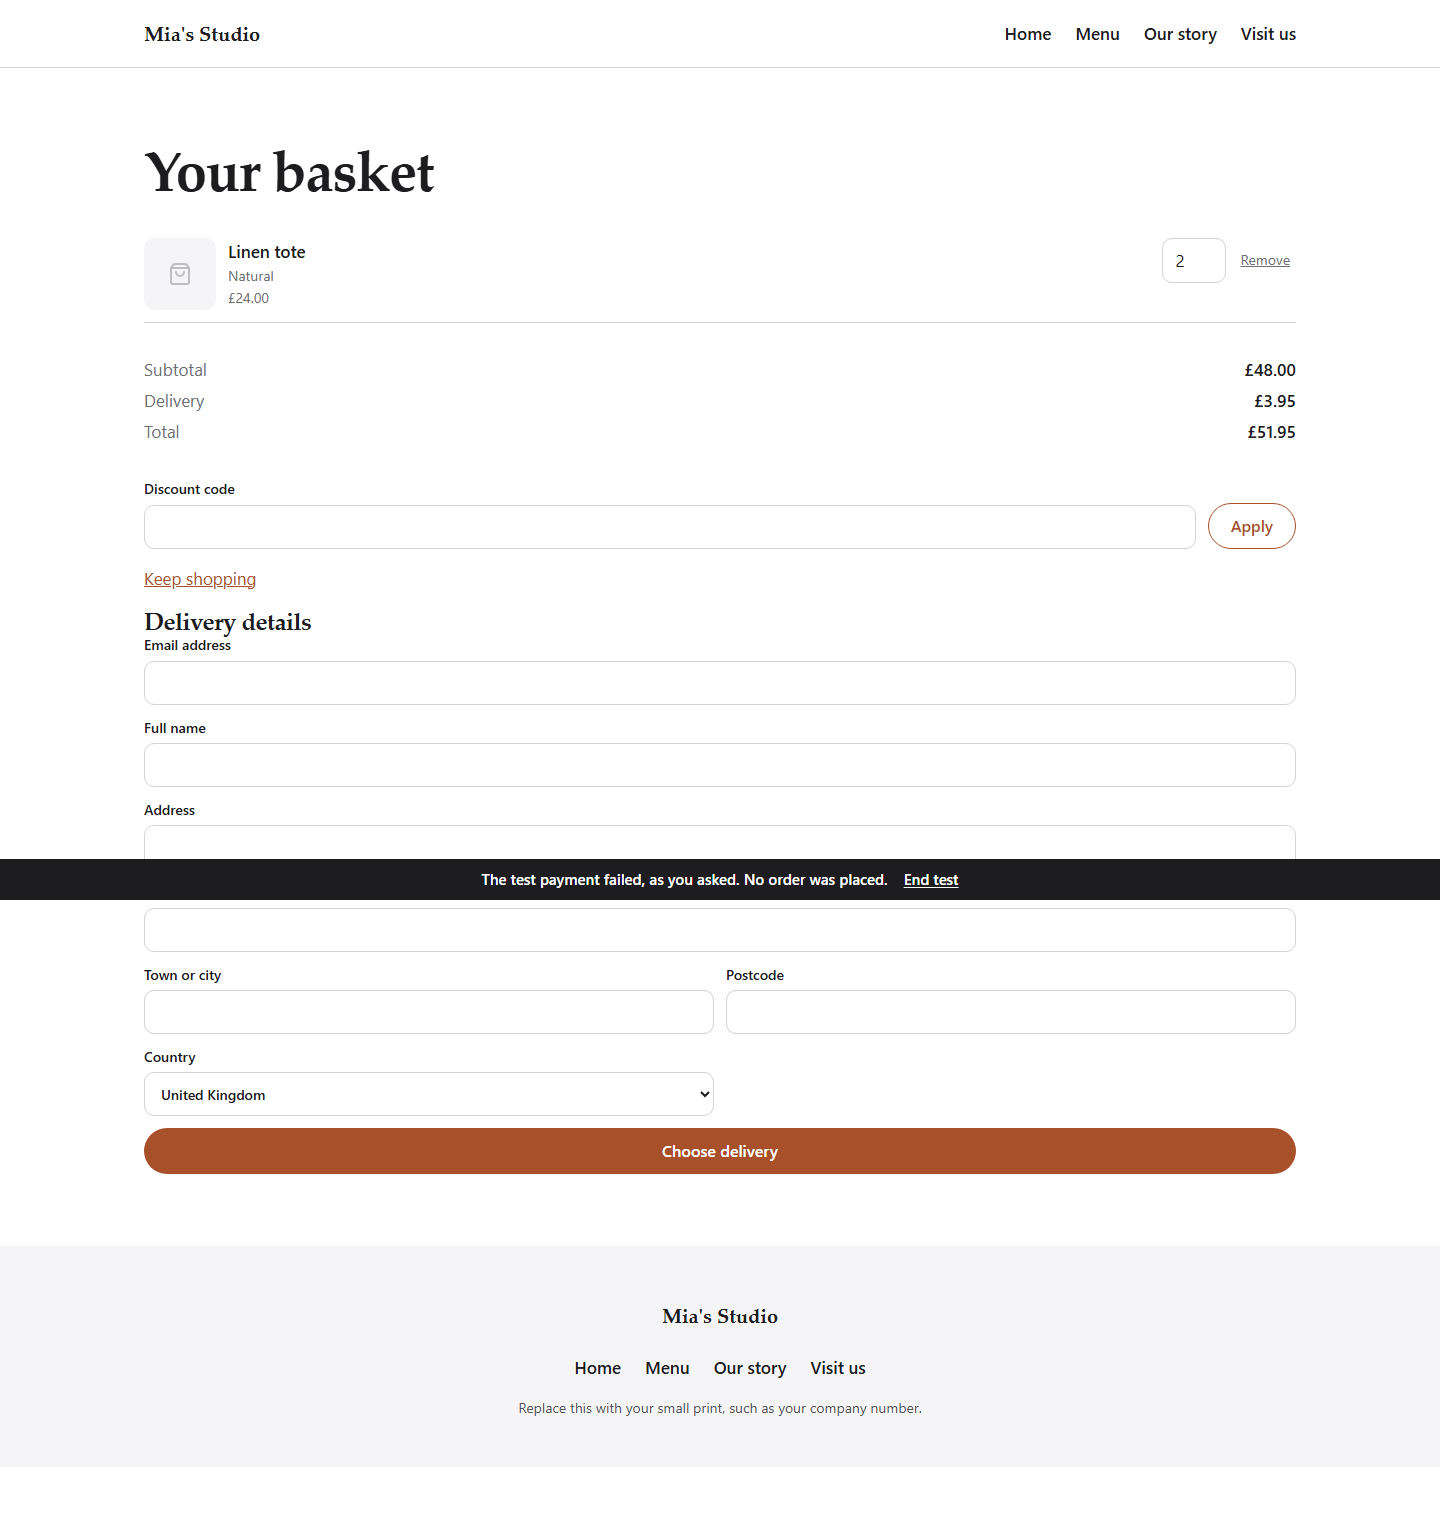
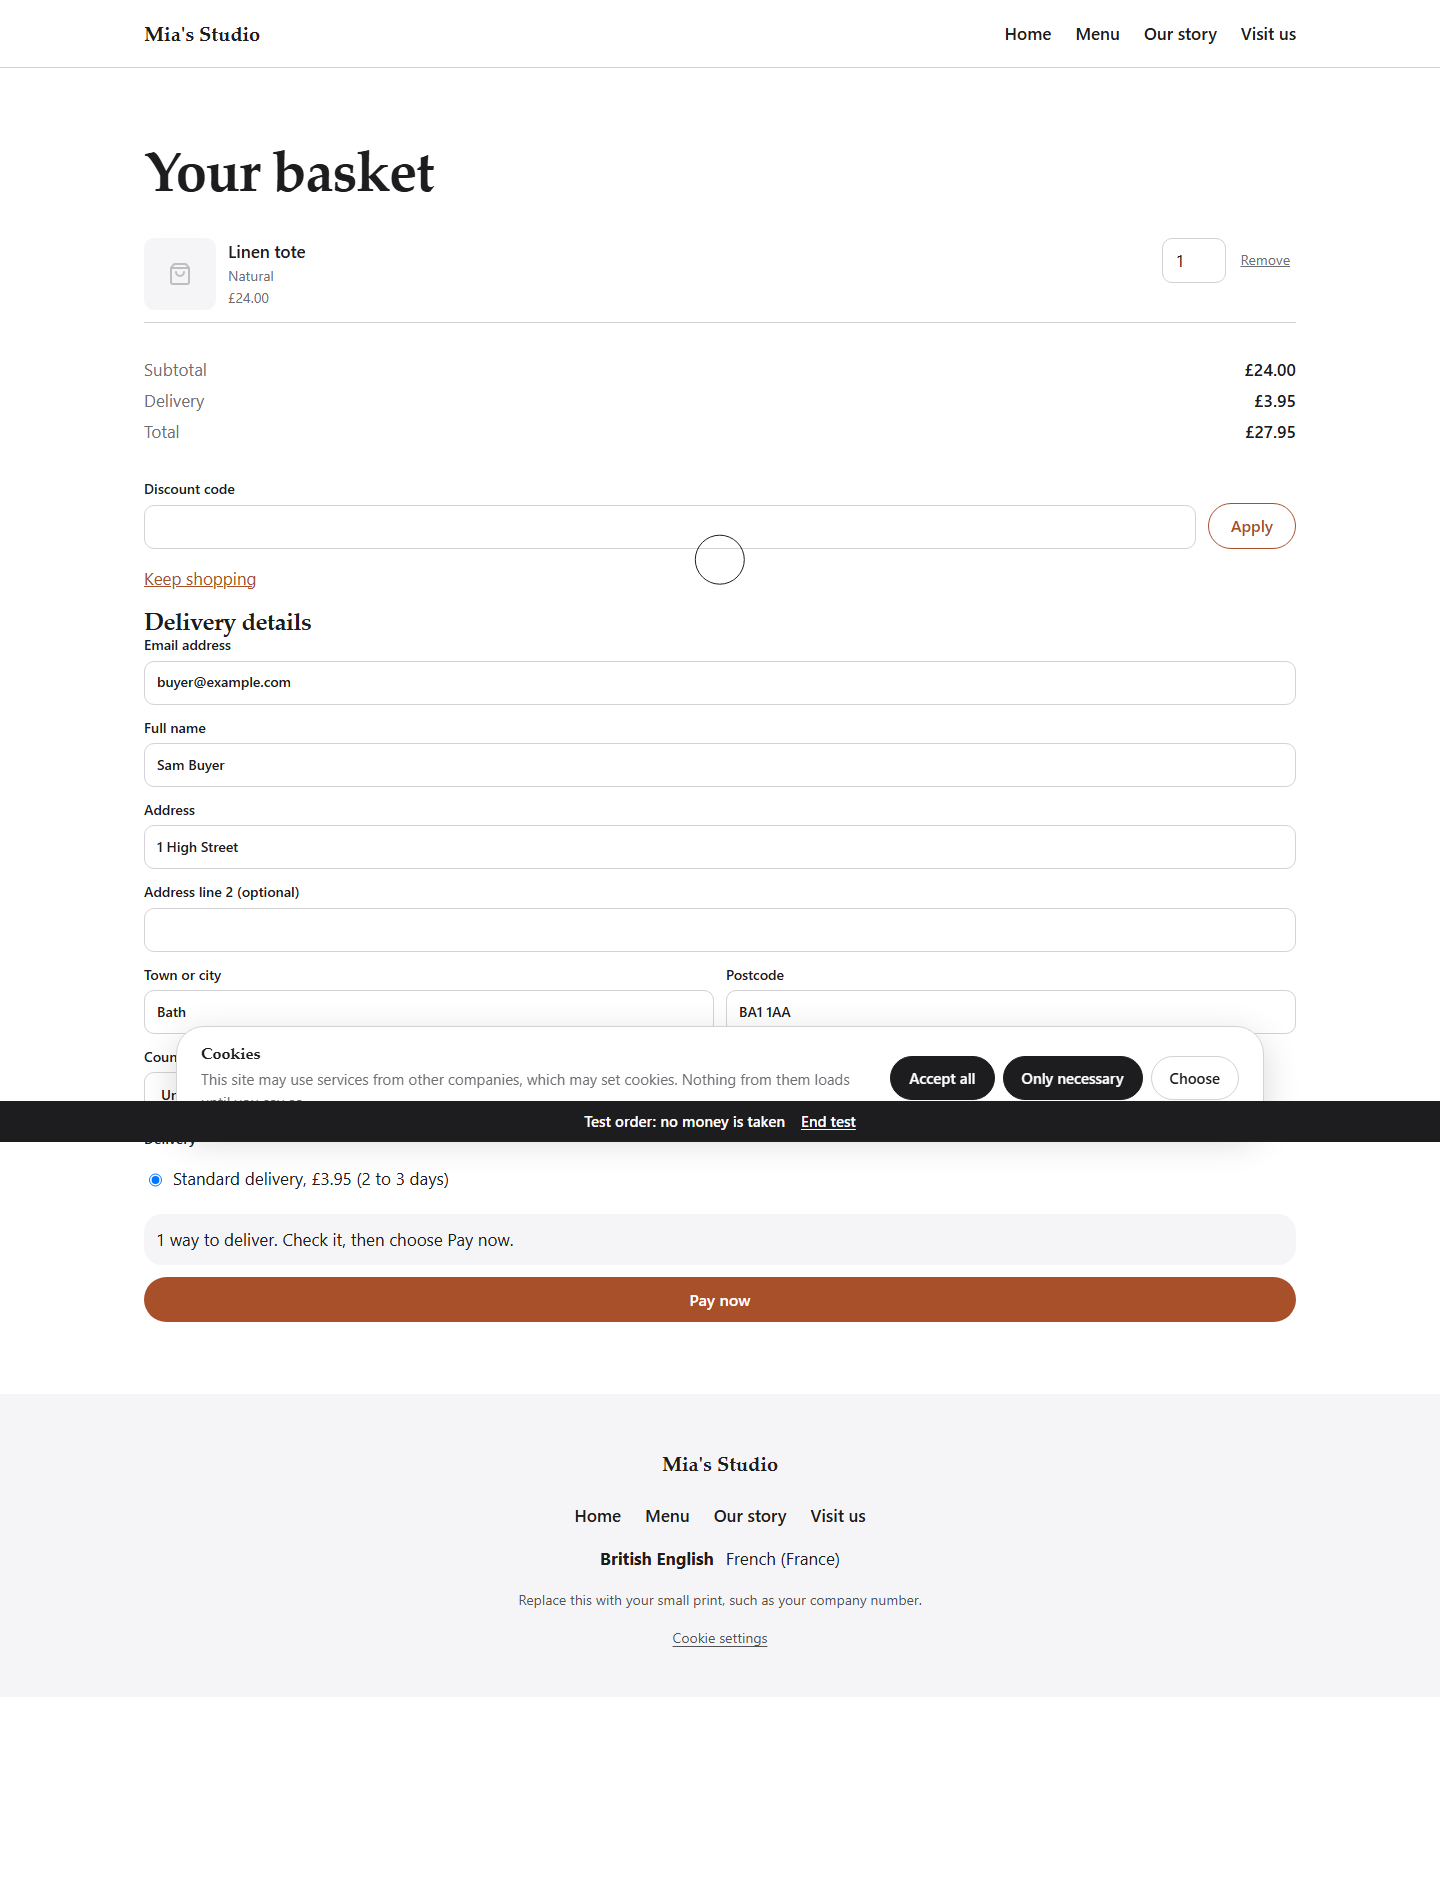
Record the overnight QA pass in the bug report, test results and fix log

diff --git a/docs/qa/BUG-REPORT.md b/docs/qa/BUG-REPORT.md
@@ -916,3 +916,47 @@ Found while joining external apps to the release branch and checking Build → A
 | LINTEL-UX-133 | P3       | Fixed  | An app's page said its name twice when its sidebar label is the app's name                                      |
 | LINTEL-UX-134 | P3       | Fixed  | An app's details page: the Uninstall button sat far to the right of the narrower cards below it                 |
 | LINTEL-UX-135 | P2       | Fixed  | An app could keep working after the person who installed it was deactivated (API tokens already stopped)        |
+
+## Overnight QA and UX pass (4 November 2026)
+
+A first-time website maker's journeys on a fresh install, in real Chromium, on `fix/night-qa` from `9943c3c1`. Fixes are in `FIX-LOG-night-qa.md`; screenshots in `screenshots/night-qa/`. Ranked by severity.
+
+| ID              | Severity | Status | Summary                                                                                                                       |
+| --------------- | -------- | ------ | ----------------------------------------------------------------------------------------------------------------------------- |
+| LINTEL-FUNC-034 | P1       | Fixed  | A section from Insert goes inside what's selected: a column, or the section just added, so the second section of a page nests |
+| LINTEL-FUNC-033 | P1       | Fixed  | With nothing selected, a new section goes after the site's footer until the page is reopened                                  |
+| LINTEL-FUNC-035 | P1       | Fixed  | The basket total leaves out the ticked delivery until the payment page                                                        |
+| LINTEL-FUNC-031 | P2       | Fixed  | A published page scrolls sideways on a phone while something waits to slide in from the right (Bakery, Our story)             |
+| LINTEL-FUNC-032 | P2       | Fixed  | Blog and magazine publishes dead `/blog` links on a site with the blog off                                                    |
+| LINTEL-FUNC-036 | P2       | Fixed  | A destination still says "Not published yet" after publishing, until the page is reloaded                                     |
+| LINTEL-FUNC-037 | P2       | Open   | Translating a page before its parent makes it that language's home page: `/fr-FR` is "Our services". Needs Daniel's decision  |
+| LINTEL-UX-302   | P2       | Fixed  | New sites and templates without their own footer publish "Replace this with your small print…"                                |
+| LINTEL-UX-304   | P2       | Fixed  | "Market" in the shop: "To try it, you need a market", Add market, Primary                                                     |
+| LINTEL-UX-305   | P2       | Fixed  | A refused product save says only "Some boxes need fixing", with the boxes far below; "making the product active"              |
+| LINTEL-UX-306   | P2       | Fixed  | What Insert adds lands below the fold with the canvas left where it was, so nothing seems to happen                           |
+| LINTEL-UX-315   | P2       | Fixed  | Back from a failed payment, the shopper's email and address are gone                                                          |
+| LINTEL-UX-300   | P3       | Fixed  | The template dialog says "Pages you already have stay as they are" while Replace my pages is chosen                           |
+| LINTEL-UX-301   | P3       | Fixed  | Template cards lower every letter: "djs"                                                                                      |
+| LINTEL-UX-303   | P3       | Fixed  | Make a component shows `Now: var(--lintel-color-border)`                                                                      |
+| LINTEL-UX-307   | P3       | Fixed  | An A/B test says "No visitors yet" over a version with 8 visitors                                                             |
+| LINTEL-UX-308   | P3       | Fixed  | Media shows "646 byte"                                                                                                        |
+| LINTEL-UX-309   | P3       | Fixed  | Adding an unreachable app shows `getaddrinfo ENOTFOUND nothing.invalid`                                                       |
+| LINTEL-UX-310   | P3       | Fixed  | "Taxonomies" and "Hostnames…" in the content tree                                                                             |
+| LINTEL-UX-311   | P3       | Fixed  | A client who opens /design is offered Use this template, then refused with a design error                                     |
+| LINTEL-UX-312   | P3       | Fixed  | A page named after the site is titled "Mia's Studio \| Mia's Studio", as is the "no home page yet" page                       |
+| LINTEL-UX-313   | P3       | Fixed  | The API reference overflows at 390px (403px wide)                                                                             |
+| LINTEL-UX-314   | P3       | Fixed  | Updates says "plugins"; everywhere else says add-ons                                                                          |
+| LINTEL-UX-316   | P3       | Open   | Replace my pages with the look off keeps the old look's header button, which can lead to a replaced page (a 404)              |
+| LINTEL-UX-317   | P3       | Open   | Replace my pages leaves the old template's collections (Episodes, Listings) and their published samples behind                |
+| LINTEL-UX-318   | P3       | Open   | Static publishing leaves out the sample 3D models: `/_lintel/models/vase.glb` is a 404 (held by the Rive and 3D track)        |
+| LINTEL-UX-319   | P3       | Open   | Lottie and Rive offer Upload a file but no way to pick a file already in Media (held by the Rive and 3D track)                |
+| LINTEL-UX-320   | P3       | Open   | Rive's own warning about `stateMachine` is in the console on every page with a Rive animation (held by the Rive and 3D track) |
+| LINTEL-UX-321   | P3       | Open   | `InvalidStateError` from the page transition in the console when a page moves to the test payment page. Harmless              |
+| LINTEL-UX-322   | P3       | Open   | Insert search for "form" lists about 30 elements, from words in their descriptions; Form is first                             |
+| LINTEL-UX-323   | P3       | Open   | The first site is called "Default site" beside the site's own name, and a site at a path says "No domain yet"                 |
+| LINTEL-UX-324   | P3       | Open   | A client who types /settings or /build sees those screens (the data is refused); /users shows "This didn't load"              |
+| LINTEL-UX-325   | P3       | Open   | Settings → Your website says "Your website is live" on a site with no pages; This server says "sharp works"                   |
+| LINTEL-UX-326   | P3       | Open   | An Arc carousel published without pictures is a blank 380px gap                                                               |
+| LINTEL-UX-327   | P3       | Open   | Visitors counts goals from automated browsers but not their visits: "form sent 2" beside 0 visitors, a 100% conversion rate   |
+| LINTEL-UX-329   | P3       | Open   | During a shop test with the cookie notice showing, the test bar covers the last line of the notice                            |
+| LINTEL-UX-328   | P3       | Open   | Templates as drafts with the look on: the first-visit intro and footer show the sample's name on the empty site               |

diff --git a/docs/qa/TEST-RESULTS.md b/docs/qa/TEST-RESULTS.md
@@ -272,3 +272,30 @@ None.
 - CLI: the known 3 Windows failures.
 
 In a browser (API 4600, site 4601, admin 5690, a fresh Lintel folder): a page drawn by `templates/pages.liquid` through a layout and a partial, a page choosing `landing.liquid` inside the shared document, a template edit showing on reload without a restart, a broken template showing its error in development, and the editor's Template section at desktop and 390px in light and dark. Screenshots in `screenshots/liquid-templates/`.
+
+## Overnight QA and UX pass (fix/night-qa, 2026-11-04)
+
+Chromium through Playwright 1.63, Windows. API 4761, website 4762, admin 5761, Vite dev server, a new Lintel folder.
+
+| Journey                                                                                                          | Result                                                                                                         |
+| ---------------------------------------------------------------------------------------------------------------- | -------------------------------------------------------------------------------------------------------------- |
+| First run: welcome, database, account, site name, kind, review, finish                                           | Pass                                                                                                           |
+| All 20 templates, published with the look: every page and link, one h1, no overflow                              | Pass after FUNC-031, FUNC-032. Atelier's h1 to h3 skip is the known UX-159                                     |
+| Templates with the look off or as drafts (Folio, Longwave, Longplay)                                             | Pass; UX-316, UX-317, UX-328 logged                                                                            |
+| Builder: tour (9 steps), Insert, inline text, Style, Animate, undo and redo, publish, Design and Content         | Pass after FUNC-033, FUNC-034, UX-306                                                                          |
+| Components: make, variants, a variant on a page, published                                                       | Pass (the Large variant's 56px heading on the live page)                                                       |
+| Multi-select, tree marks and menus                                                                               | Pass, light coverage; multi-select copy is held by another track                                               |
+| Shop: region, delivery, product with variant rows, Try your shop, failed payment, test order, Delete test orders | Pass after FUNC-035, UX-305, UX-315. Stock 7, then 4 with the test order, then 7 after deleting it             |
+| An ordinary visitor during a shop test                                                                           | Pass: "Coming soon", no basket button, no test bar, 403 on the test payment page                               |
+| Forms: new from Contact, on a page, sent, submissions                                                            | Pass                                                                                                           |
+| Cookie notice: Always, three choices, remembered, 390px, dark                                                    | Pass                                                                                                           |
+| Visitors: counted with a normal browser, not with an automated one                                               | Pass; UX-327 logged                                                                                            |
+| A/B test: version B, goal, start, results                                                                        | Pass after UX-307. Not run to an end. All simulated visitors shared one address, so only one version was seen  |
+| Privacy: find, export (zip), erase, then nothing found                                                           | Pass                                                                                                           |
+| Published creative page: 3D model, Lottie, Rive, text on a path, stickers, arc carousel                          | Pass, at desktop, 390px and dark. Reduced motion: the carousel becomes a scrolling row, and arrow keys move it |
+| Page transition and first-visit intro                                                                            | Seen working through templates. Custom cursor not exercised                                                    |
+| Add-ons and apps                                                                                                 | Screens and refusals only: no third-party add-on or app was installed                                          |
+| Static publishing to a folder                                                                                    | Pass: 134 files, pages open offline, no localhost addresses left. FUNC-036 fixed, UX-318 logged                |
+| Client content-only: invited, accepted, page editor, API refuses design changes                                  | Pass after UX-311; UX-324 logged. Not tried: changing an opened-up part, or sending it for approval            |
+| Languages and multisite                                                                                          | Language added, page translated, second site at /fr served; FUNC-037 open                                      |
+| Keyboard: 40 Tab presses on 7 main screens                                                                       | No traps; every stop shows a ring on itself or its row                                                         |

diff --git a/docs/qa/FIX-LOG-night-qa.md b/docs/qa/FIX-LOG-night-qa.md
@@ -16,6 +16,7 @@ A first-time website maker's journeys, walked on a fresh install in real Chromiu
 | LINTEL-UX-306   | P2       | `62cdc88f`             | The canvas scrolls to what Insert adds                                                                           |
 | LINTEL-FUNC-036 | P2       | `4b117c61`             | A destination shows as published when the publish ends; its dates match the rest of the admin                    |
 | LINTEL-UX-304   | P2       | `88279843`             | "Market" is now "Where you sell" and "region" in the shop's screens, messages and guides; the API keeps its name |
+| LINTEL-UX-315   | P2       | `a73763c2`             | Back from a failed payment, the shopper's email and address are still there (`after-failed-payment.png`)         |
 | LINTEL-UX-300   | P3       | `3c3e37b7`             | The template dialog no longer promises to keep pages while replacing them                                        |
 | LINTEL-UX-301   | P3       | `3c3e37b7`             | "djs" is "DJs" again on the Longplay card                                                                        |
 | LINTEL-UX-303   | P3       | `e348b12f`             | The Make a component dialog doesn't show a colour's code                                                         |
@@ -42,7 +43,7 @@ A first-time website maker's journeys, walked on a fresh install in real Chromiu
 
 **Before:** after Choose delivery the only rate was ticked, but the total stayed at £24.00 until the payment page said £27.95.
 
-**After:** the ticked rate is sent as soon as rates are offered, and again whenever the choice changes. Browser run: `Subtotal £72.00 Delivery £3.95 Total £75.95` before Pay now.
+**After:** the ticked rate is sent as soon as rates are offered, and again whenever the choice changes. Browser run on a fresh basket, with the site's script rebuilt: `Subtotal £24.00, Delivery £3.95, Total £27.95` before Pay now (`after-basket-total.png`).
 
 **Tests:** `cart-views.test.ts`.
 

diff --git a/docs/qa/RELEASE-READINESS.md b/docs/qa/RELEASE-READINESS.md
@@ -225,3 +225,12 @@ With these, **no P1 is open**. Still needed before calling one-click updates saf
 - a real update and roll back of a release build, on Linux and on Windows;
 - the update tests on Linux in CI;
 - a decision on Postgres: updates that change the database are done by hand for now.
+
+## Update, 4 November 2026: overnight QA and UX pass
+
+Branch `fix/night-qa` (`FIX-LOG-night-qa.md`). The text above is unchanged.
+
+- A first-time website maker's journeys were walked in a real browser, from nothing to a published site, a test shop order, forms, privacy, creative pages and static publishing. 22 defects were fixed: 3 P1, 8 P2, 11 P3.
+- The three P1s were everyday flows that automated tests didn't reach: where a section lands in the builder (FUNC-033, FUNC-034) and a basket total without delivery (FUNC-035).
+- **Open:** 1 P2 (FUNC-037, translating a page before its parent, for Daniel to decide) and 14 P3. No P0 or P1 is open from this pass.
+- **Not covered:** a real payment, a real add-on or app install, FTP, SFTP and S3 publishing, WebKit and Firefox, a screen reader, contrast measurement. See `TEST-RESULTS.md`.
